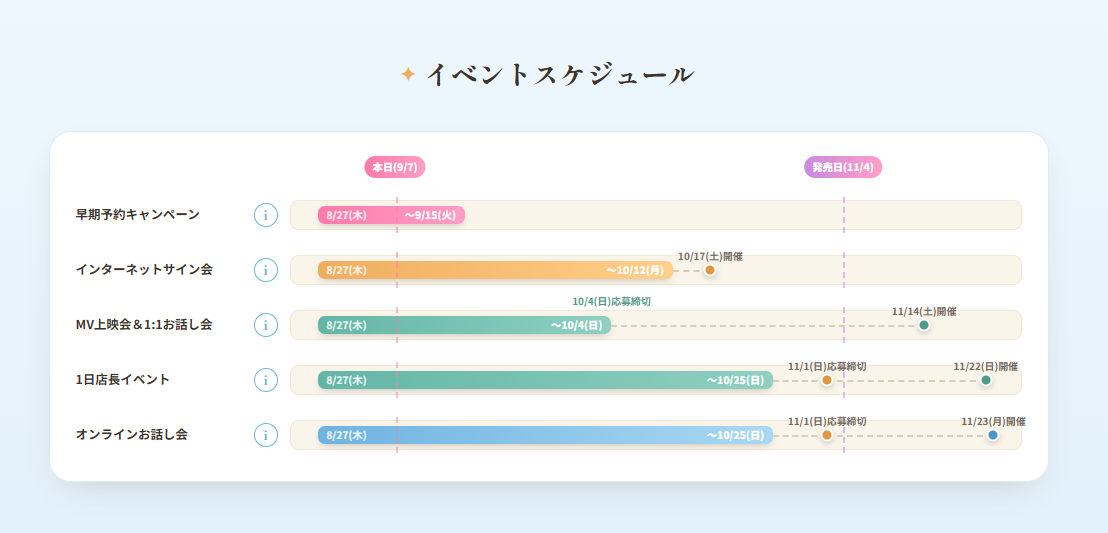
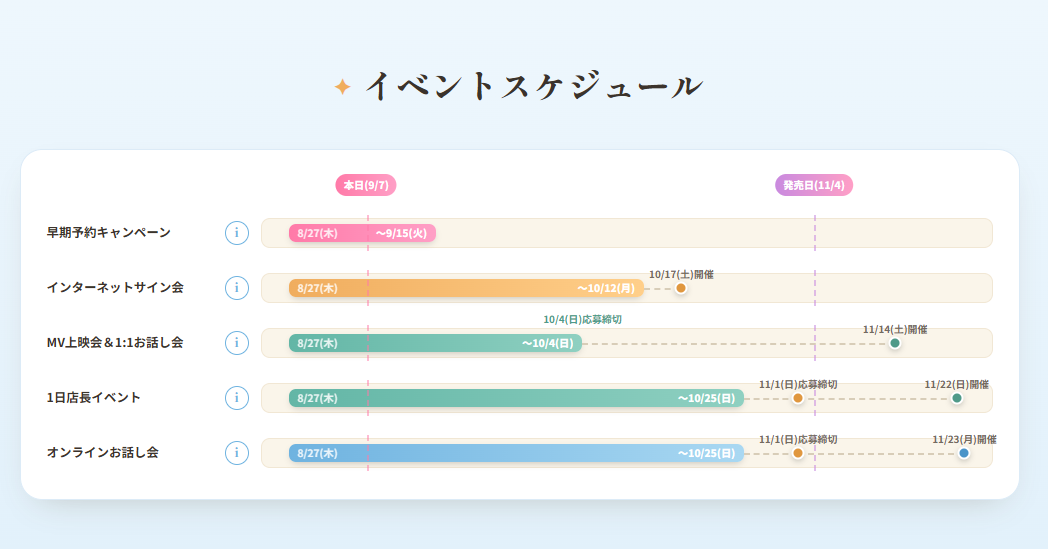
レイアウト調整

diff --git a/public/event/2026-11-04-ep-tokino-sora/index.html b/public/event/2026-11-04-ep-tokino-sora/index.html
@@ -171,8 +171,8 @@
 
   /* ---------------- section head ---------------- */
   .section-head{ text-align:center; margin-bottom:34px; }
-  .section-head h2{ font-size:1.7rem; margin:0 0 4px; font-weight:700; display:flex; align-items:center; justify-content:center; gap:8px;}
-  .section-head h2::before{ content:'✦'; color:var(--gold1); font-size:1.1rem;}
+  .section-head h2{ font-size:2.1rem; margin:0 0 4px; font-weight:800; letter-spacing:.02em; display:flex; align-items:center; justify-content:center; gap:10px;}
+  .section-head h2::before{ content:'✦'; color:var(--gold1); font-size:1.3rem;}
   .section-head .sub-jp{ color:var(--ink-faint); font-size:0.86rem; }
   .section-head p.desc{ color:var(--ink-soft); font-size:0.9rem; max-width:56ch; margin:10px auto 0;}
 
@@ -474,7 +474,7 @@
 </div>
 
 <footer>
-  <div class="credit">ホロリスの推し活サポート</div>
+  © 2025 ホロリスの推し活サポート. All rights reserved.
 </footer>
 
 <script>
